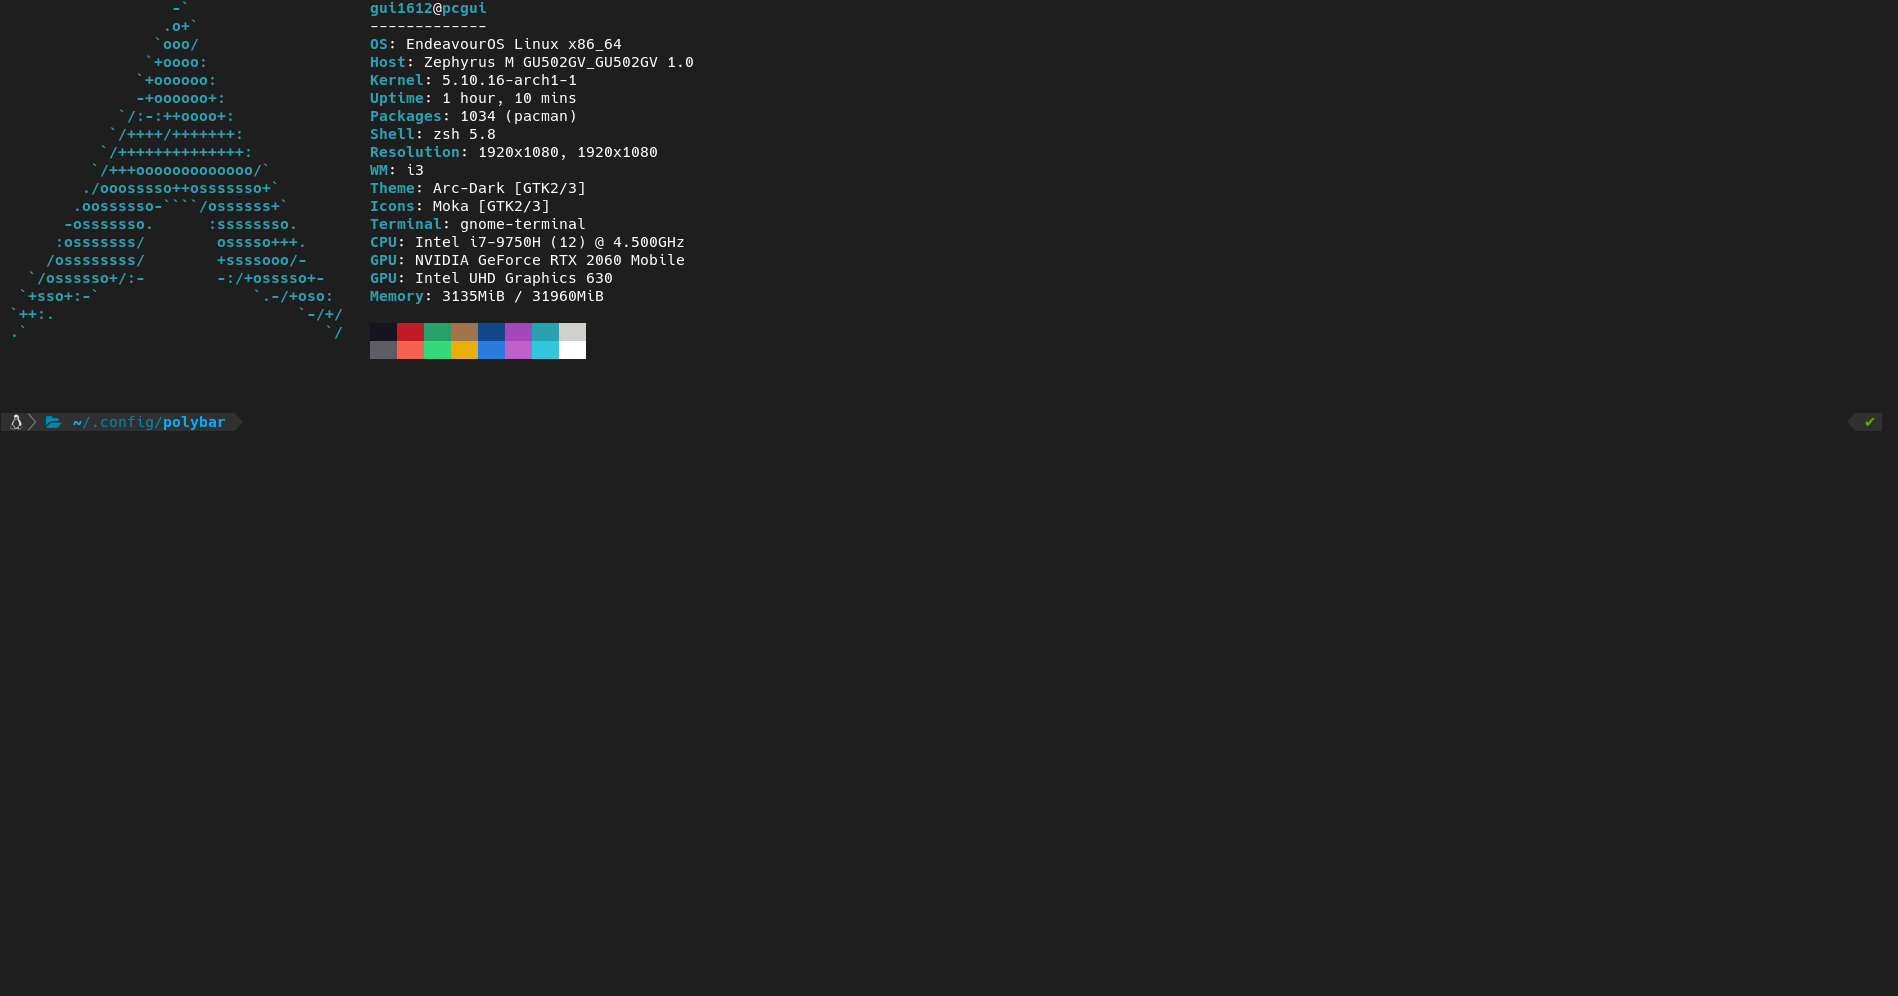
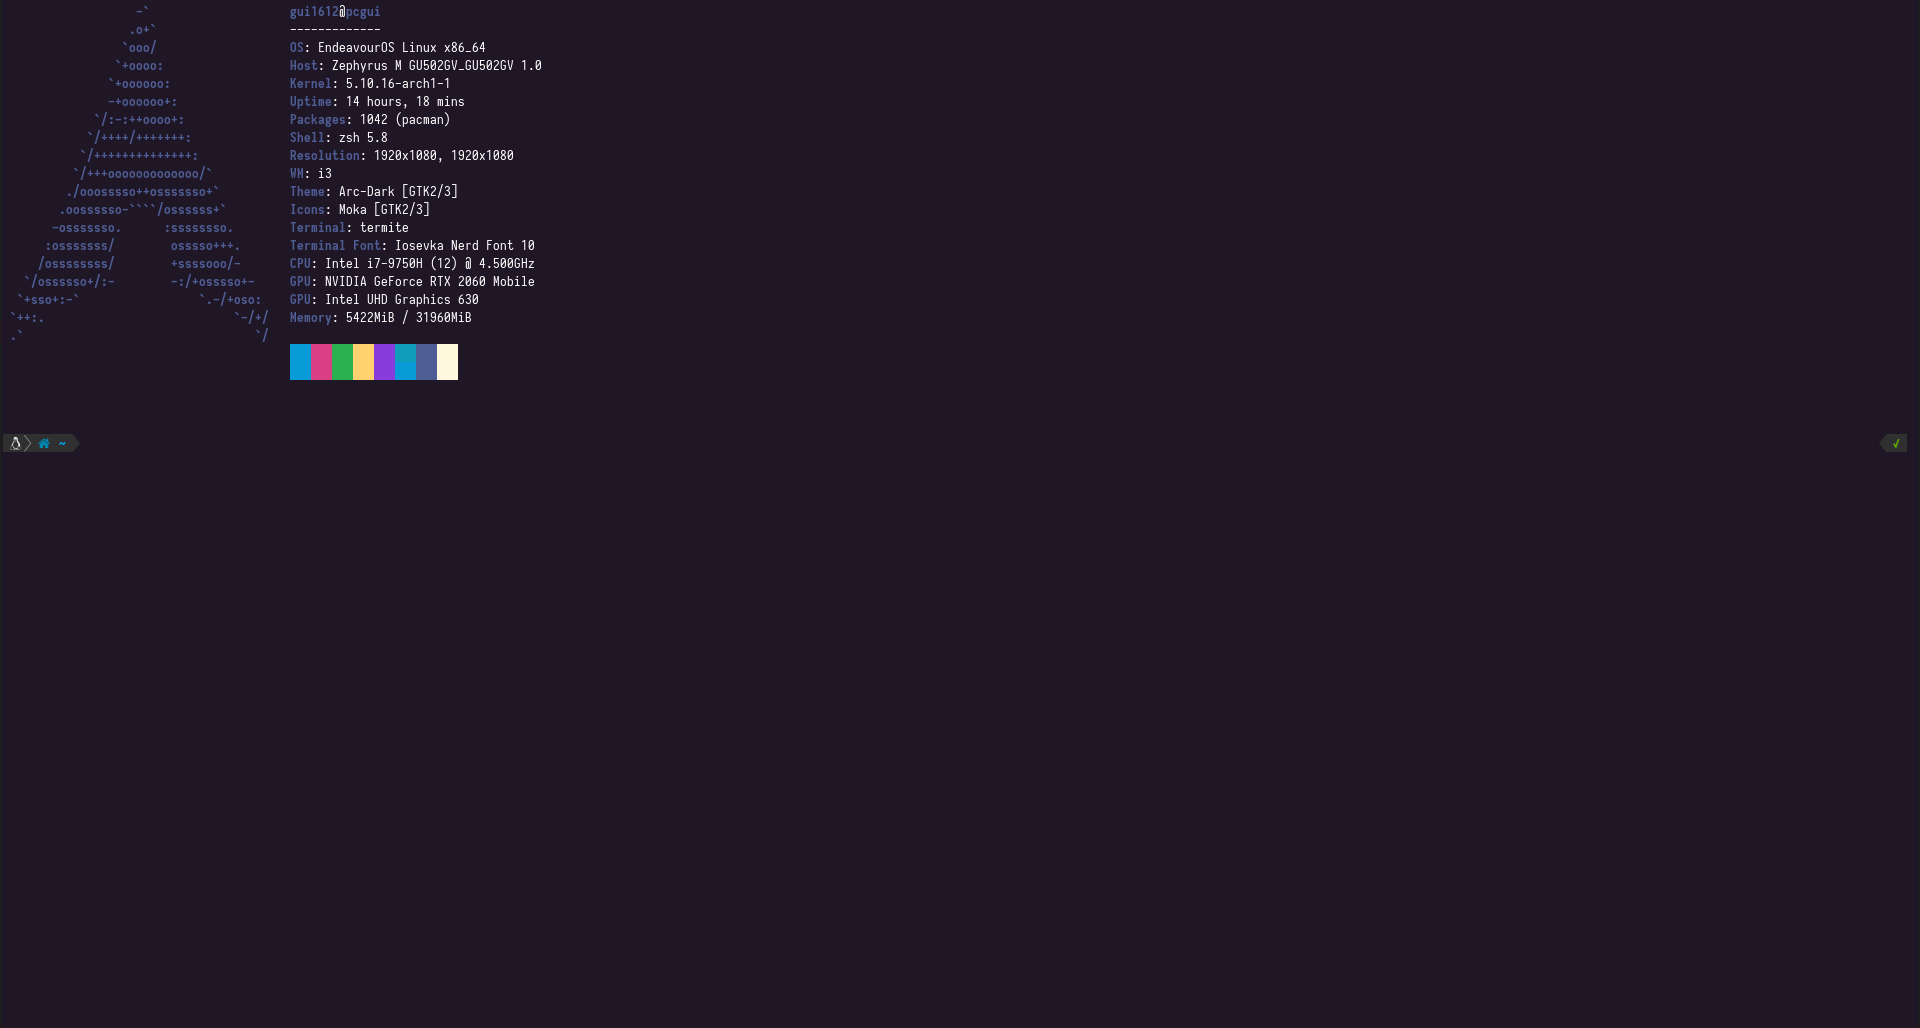
added termite config

diff --git a/README.md b/README.md
@@ -19,7 +19,7 @@ Used [neofetch](https://github.com/dylanaraps/neofetch) for the printscreen
 
 **Bar**: Polybar
 
-**Terminal**: Gnome-terminal
+**Terminal**: Termite
 
 **LockScreen**: i3lock
 
